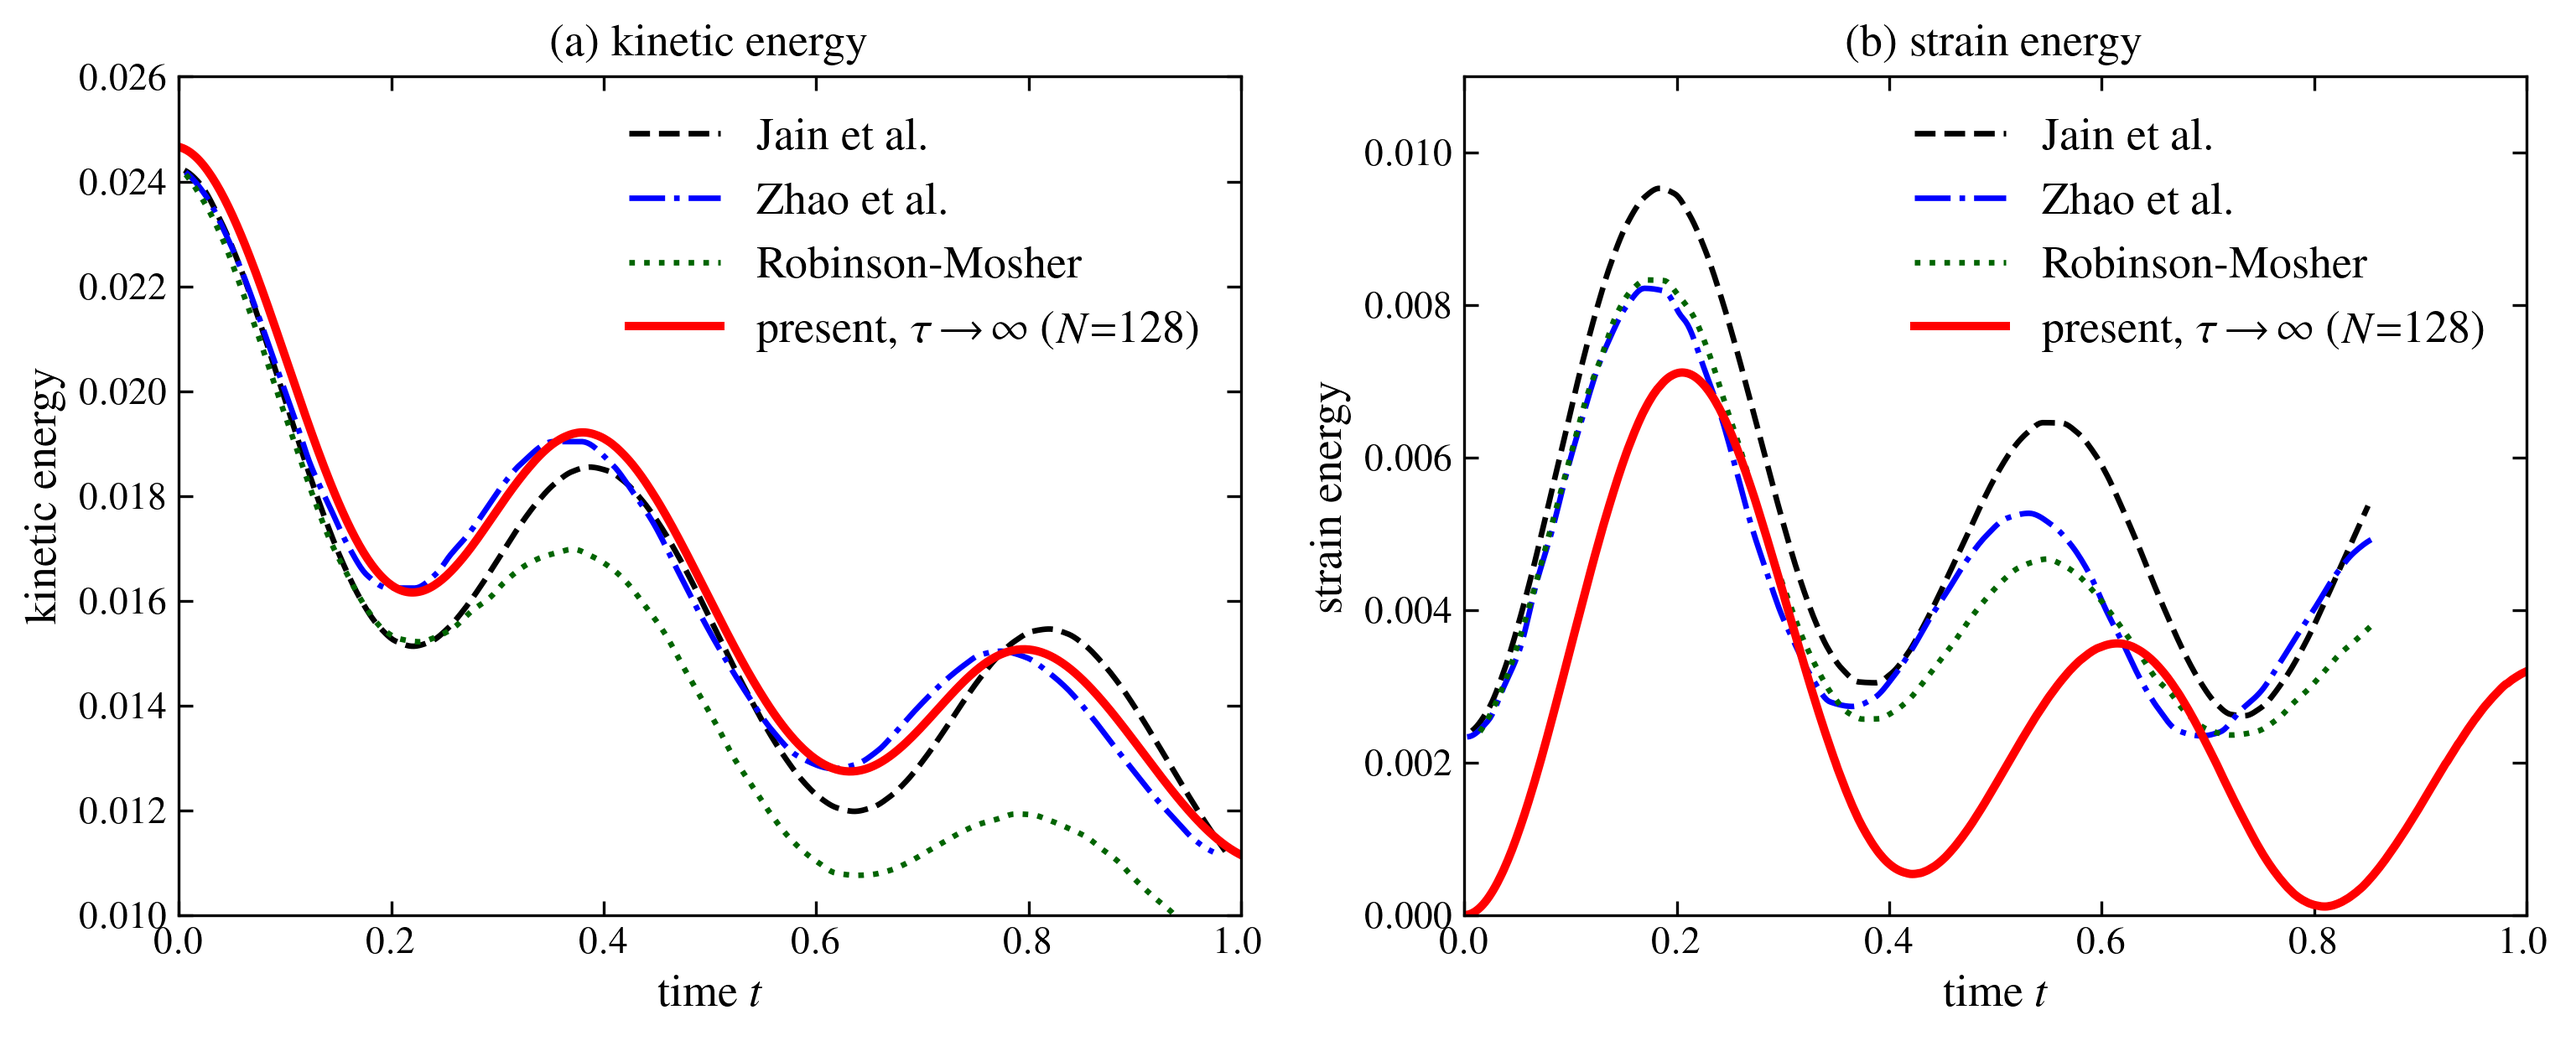
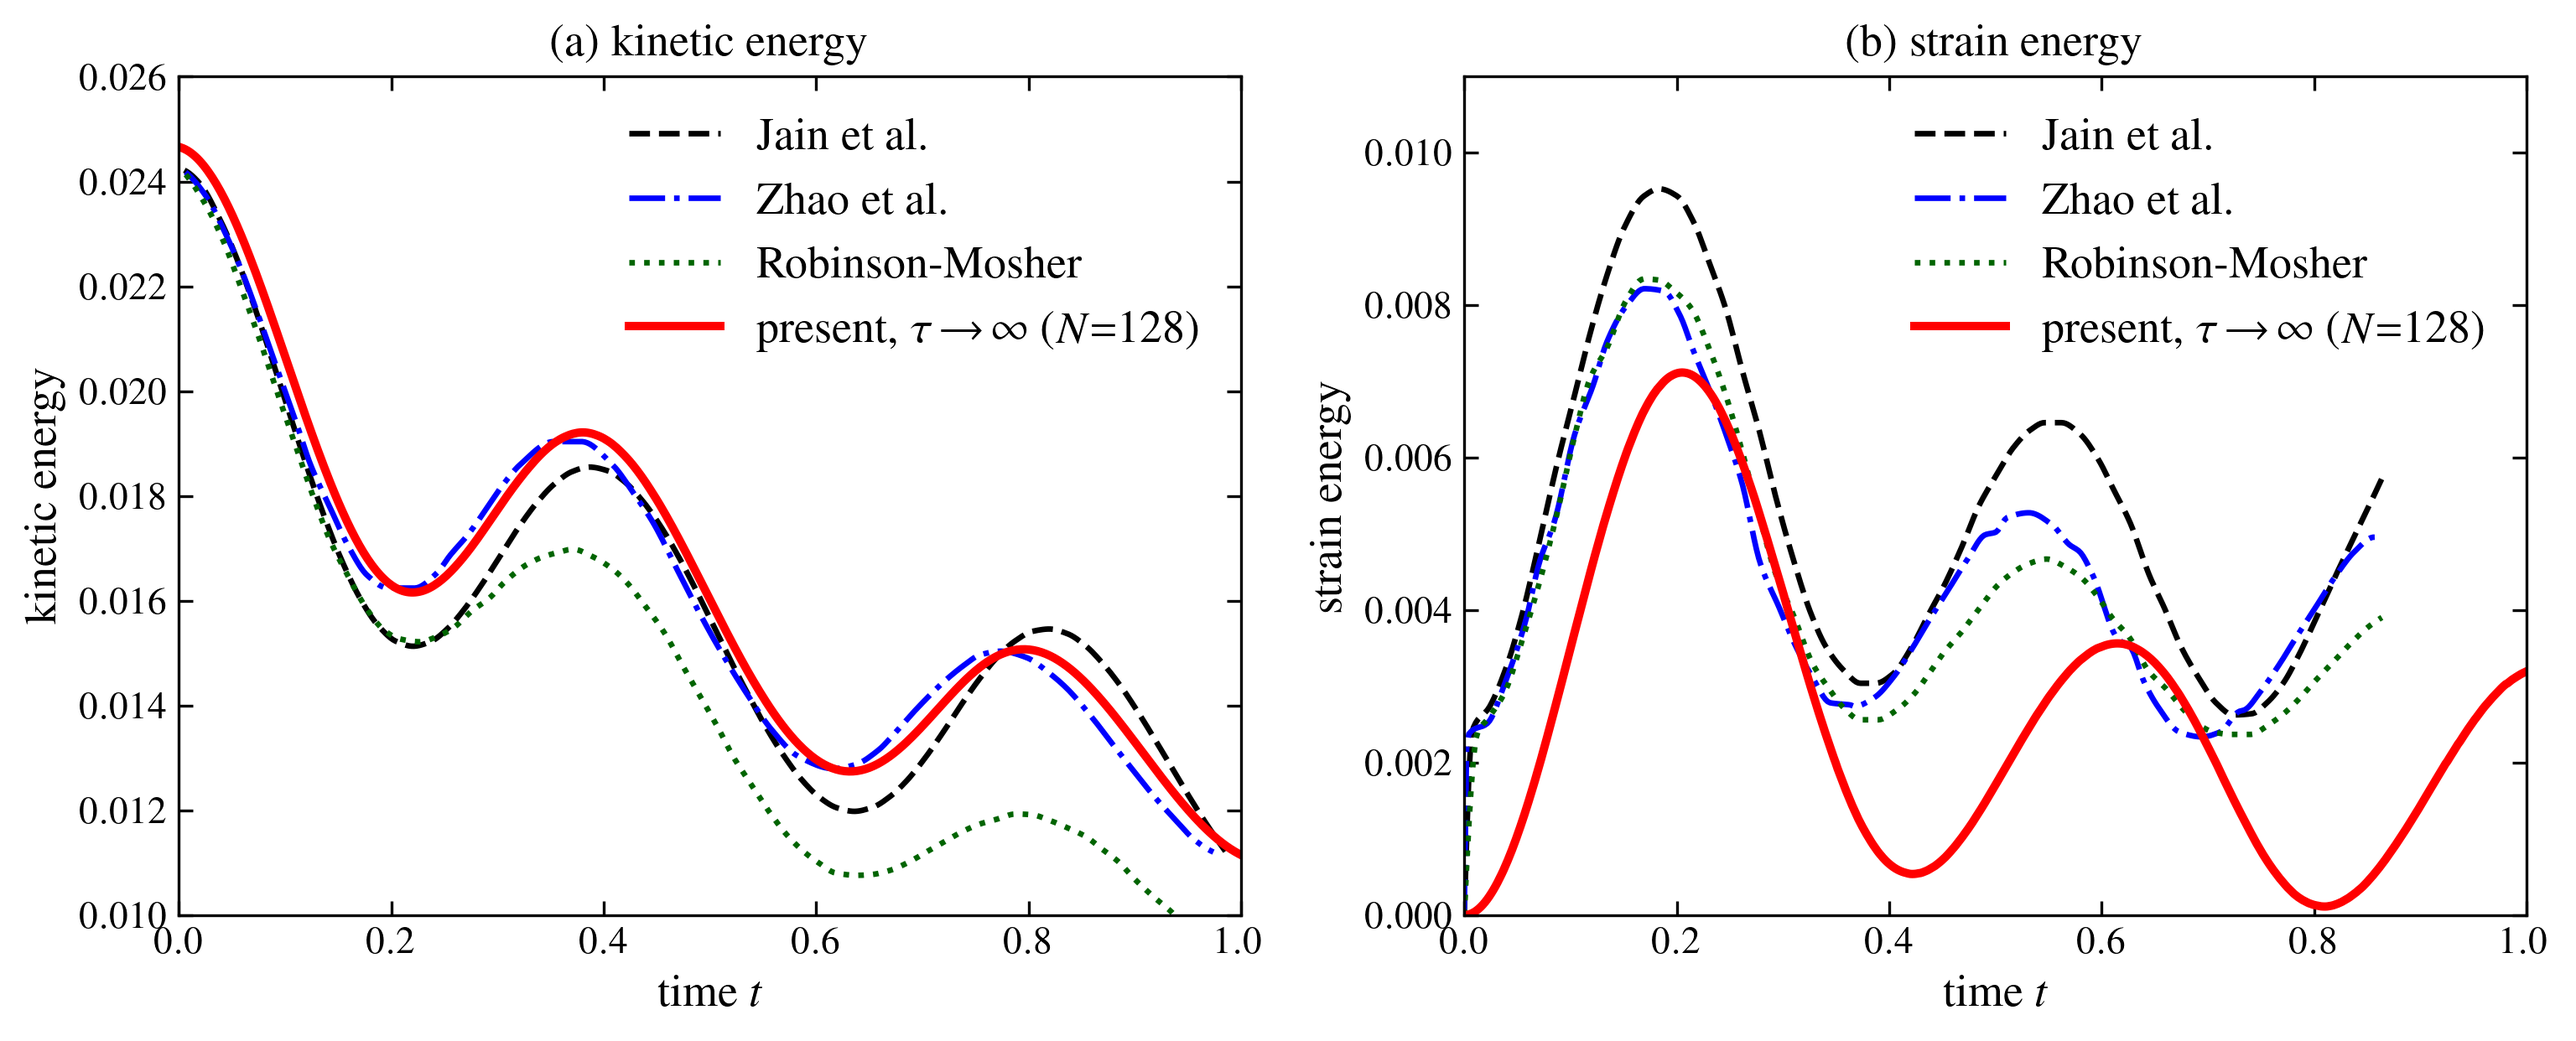
figs: strain energy starts at zero; convergence in standard colours
- SE references re-extracted anchored at (0,0) and smoothed directly (no
  re-binning that averaged the zero start away) -- the strain-energy curves now
  start from zero as they physically must.
- Convergence figure re-plotted in standard colours (kinetic=black,
  strain=dark-green, velocity=blue, pressure=red) -- the earlier standard
  re-plot had not been saved (it was still the colour-blind palette).

diff --git a/benchmarks/disc_tg_energy_figure.py b/benchmarks/disc_tg_energy_figure.py
@@ -37,6 +37,10 @@ def main():
             return None
         d = np.loadtxt(p, delimiter=",", skiprows=1)
         t, y = d[:, 0], d[:, 1]
+        if comp == "se":
+            # the SE csv is already a clean bin-median curve anchored at (0,0); smooth
+            # it directly (no re-binning, which would average the zero start away)
+            return smooth(t, y)
         bins = np.linspace(t.min(), t.max(), 61)
         idx = np.digitize(t, bins)
         tb, yb = [], []
